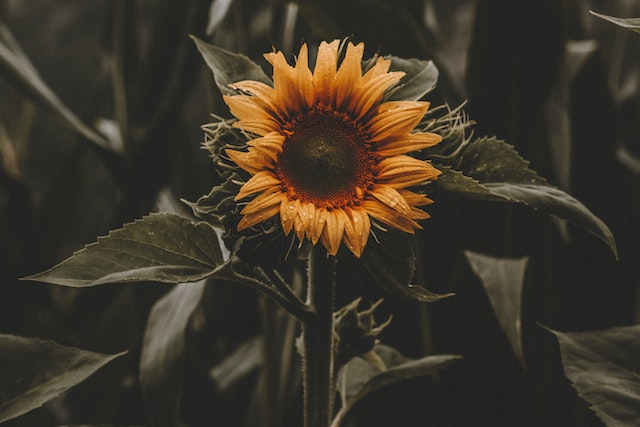
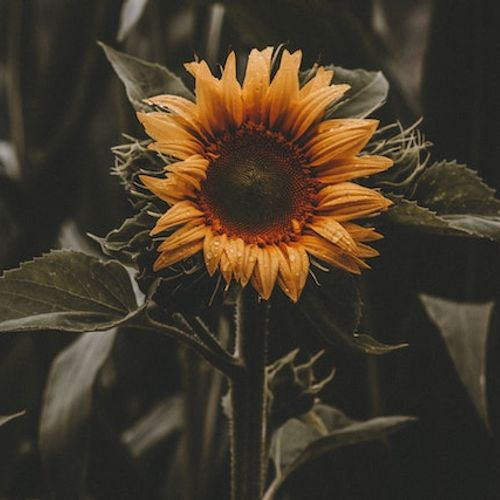
feat(plants): ✨ Insert images and resize images
Insert planst to database using random users id and resize the initial images to normalize the size.

diff --git a/src/index.database.ts b/src/index.database.ts
@@ -1,12 +1,18 @@
 import { faker } from "@faker-js/faker";
 import { DatabasePool } from "./database/database.js";
 import { hashPassword } from "./lib/bcrypt.lib.js";
+import path from "path";
+import sharp from "sharp";
+import plants from "./database/plants.json" assert { type: "json" };
 
 // Global variables
+const IMAGES_PATH = path.join(process.cwd(), "src", "public", "imgs");
 const usersIds: number[] = [];
 
-// Genereta en insert random users
+// Generete and insert random users
 const insertRandomUsers = async () => {
+  console.log("Inserting random users...");
+
   try {
     // Create an array of 10 users
     const users = Array.from({ length: 10 }, (_, i) => ({
@@ -37,12 +43,71 @@ const insertRandomUsers = async () => {
     );
   } catch (error) {
     console.log("Error: ", error);
+    process.exit(1);
   }
+
+  console.log("Users inserted!");
+};
+
+// Normalize the plants images to 500x500
+const normalizePlantsImages = async () => {
+  console.log("Normalizing plants images...");
+
+  Promise.all(
+    plants.map(async (plant) => {
+      try {
+        // Files should be named as the plant name plus _init.jpg
+        const inputFileName = plant.toLowerCase().split(" ").join("_");
+        const inputFilePath = path.join(
+          IMAGES_PATH,
+          inputFileName + "_init" + ".jpg"
+        );
+
+        // The output file should be named as the plant name plus .jpg
+        // TODO: Use the plant id instead of the name
+        const outputFilePath = path.join(IMAGES_PATH, inputFileName + ".jpg");
+
+        // Resize and save the image
+        await sharp(inputFilePath)
+          .resize({ width: 500, height: 500, fit: "cover" })
+          .toFile(outputFilePath);
+      } catch (error) {
+        console.log("Error: ", error);
+        process.exit(1);
+      }
+    })
+  );
+
+  console.log("Images normalized!");
+};
+
+// Insert the plants
+const insertPlants = async () => {
+  console.log("Inserting plants...");
+
+  try {
+    // Insert the plants at once
+    await Promise.all(
+      plants.map(async (plant) => {
+        const randomUserIndex = Math.floor(Math.random() * usersIds.length);
+        const sellerId = usersIds[randomUserIndex];
+        const query = "INSERT INTO plants (name, seller_id) VALUES ($1, $2)";
+        DatabasePool.query(query, [plant, sellerId]);
+      })
+    );
+  } catch (error) {
+    console.log("Error: ", error);
+    process.exit(1);
+  }
+
+  console.log("Plants inserted!");
 };
 
 // Execute the functions
 const main = async () => {
   await insertRandomUsers();
+  await normalizePlantsImages();
+  await insertPlants();
 };
 
 main();
